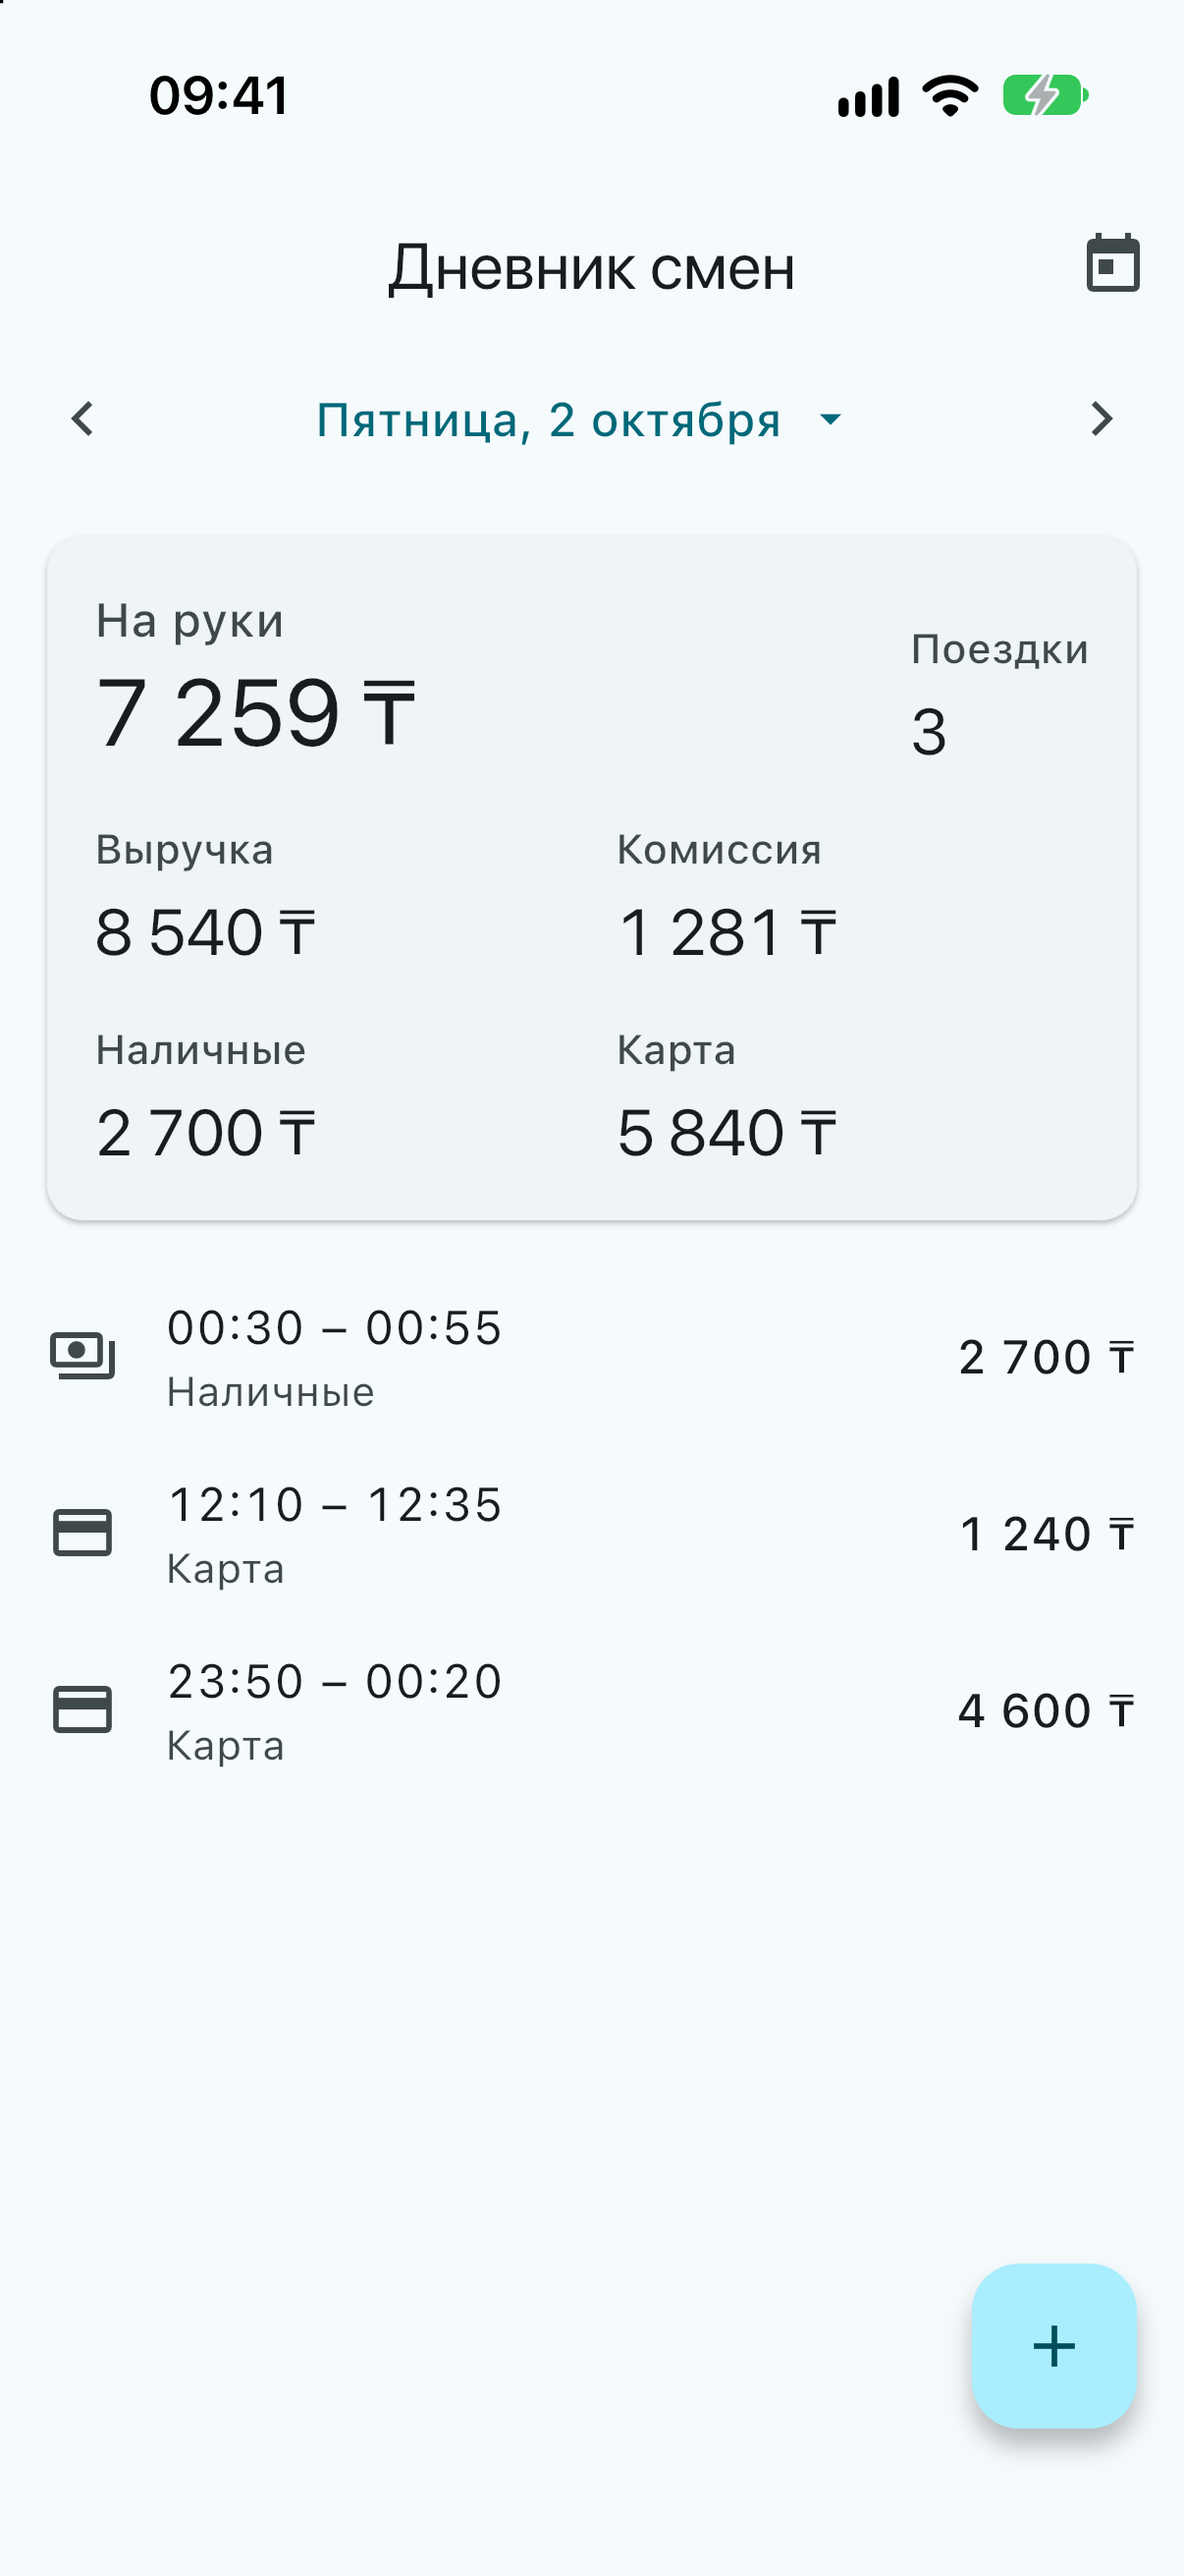
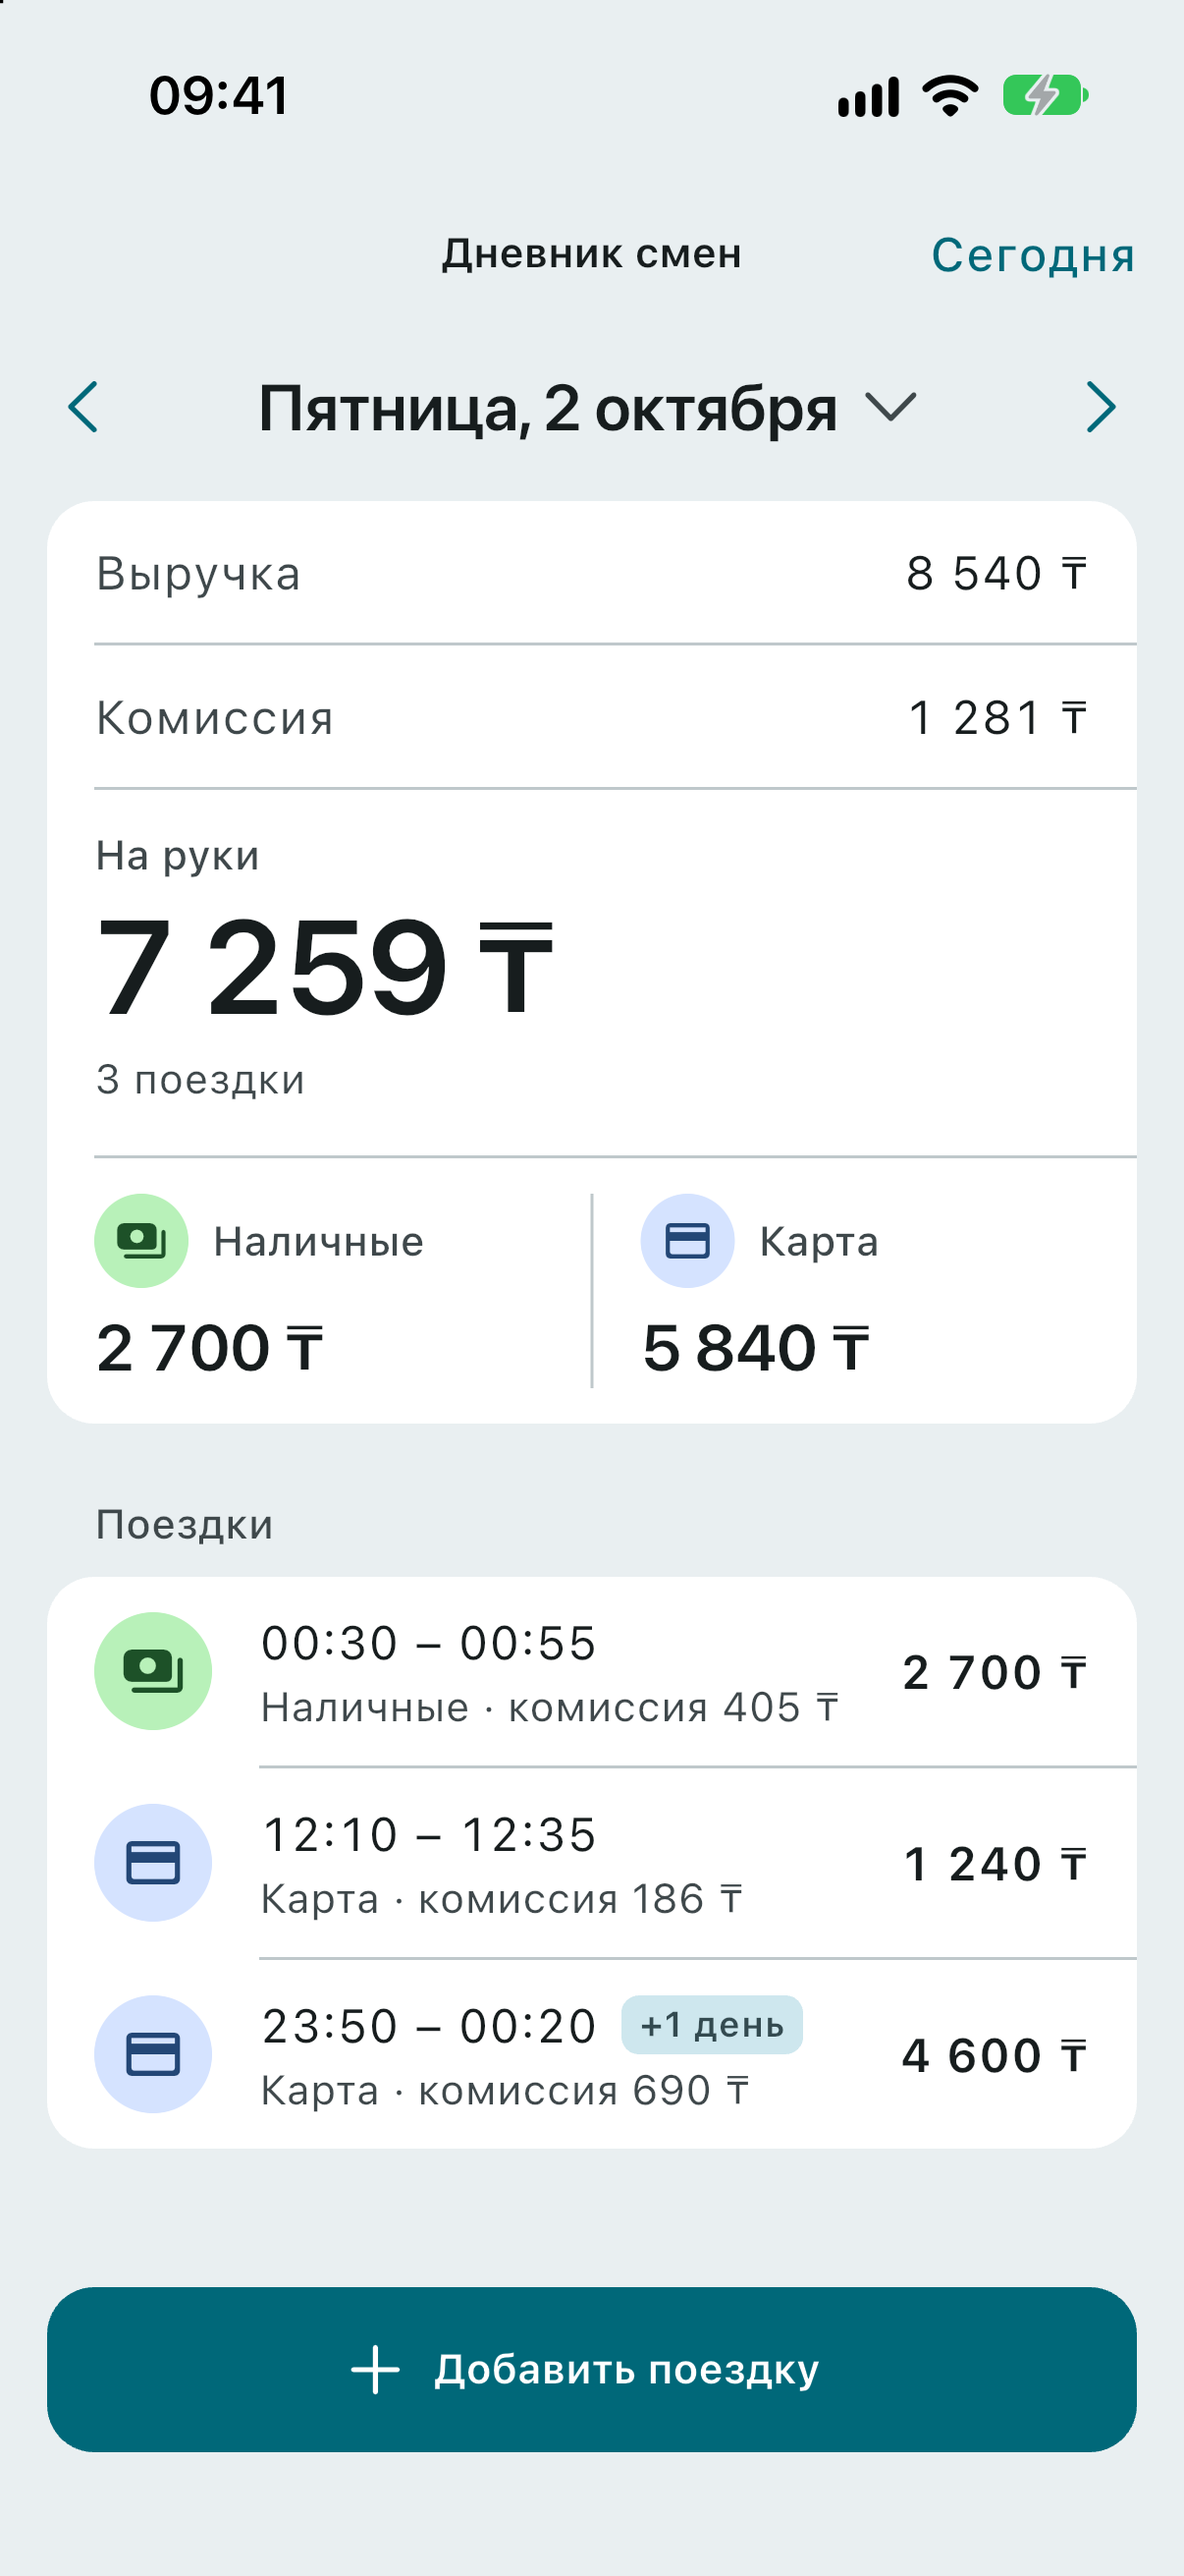
docs(screenshots): retake the iOS screenshots after the redesign
Same scenario as the integration run of PR #8 on the iPhone 17 Pro
simulator in New York time, with the backend from docker compose; adds
an empty day. The 02.10 caption mentions «+1 день».

diff --git a/README.md b/README.md
@@ -176,13 +176,16 @@ APK будет в разделе Releases этого репозитория — 
     <td align="center" valign="top"><img src="docs/screenshots/ios-day-01-10-light.png" width="180" alt="01.10, светлая тема"><br><sub>01.10: сводка из задания</sub></td>
     <td align="center" valign="top"><img src="docs/screenshots/ios-day-01-10-dark.png" width="180" alt="01.10, тёмная тема"><br><sub>Тёмная тема</sub></td>
     <td align="center" valign="top"><img src="docs/screenshots/ios-day-01-10-after-add.png" width="180" alt="01.10 после добавления поездки"><br><sub>01.10 после добавления поездки</sub></td>
-    <td align="center" valign="top"><img src="docs/screenshots/ios-day-02-10-trip-after-midnight.png" width="180" alt="02.10: поездка в 00:30 и через полночь"><br><sub>02.10: поездка в 00:30 и через полночь</sub></td>
+    <td align="center" valign="top"><img src="docs/screenshots/ios-day-02-10-trip-after-midnight.png" width="180" alt="02.10: поездка в 00:30 и через полночь"><br><sub>02.10: поездка в 00:30 и «+1 день» через полночь</sub></td>
   </tr>
   <tr>
     <td align="center" valign="top"><img src="docs/screenshots/ios-day-01-10-large-text.png" width="180" alt="01.10 с крупным шрифтом"><br><sub>Крупный шрифт (AX2, около 200%)</sub></td>
     <td align="center" valign="top"><img src="docs/screenshots/ios-form-field-error.png" width="180" alt="Форма с ошибкой под полем комиссии"><br><sub>Форма: ошибка под полем</sub></td>
     <td align="center" valign="top"><img src="docs/screenshots/ios-form-no-connection.png" width="180" alt="Форма после отправки без связи"><br><sub>Нет связи: «Повторить» с тем же <code>id</code></sub></td>
     <td align="center" valign="top"><img src="docs/screenshots/ios-form-conflict-409.png" width="180" alt="Форма после ответа 409"><br><sub>Ответ <code>409</code>: поездка уже сохранена</sub></td>
+  </tr>
+  <tr>
+    <td align="center" valign="top"><img src="docs/screenshots/ios-day-04-10-empty.png" width="180" alt="04.10 без поездок"><br><sub>Пустой день</sub></td>
   </tr>
 </table>
 
